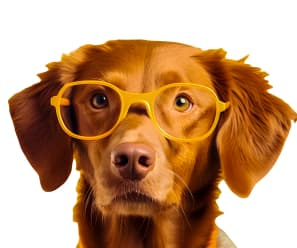
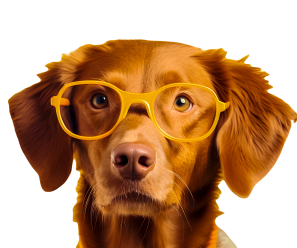
deleted old images and added png images, added some styles for mob menu and 404 page

diff --git a/src/pages/NotFound/NotFound.jsx b/src/pages/NotFound/NotFound.jsx
@@ -1,0 +1,63 @@
+import React from "react";
+import { Link } from "react-router-dom";
+import {
+  ImgStyled,
+  ImgThumb,
+  NotFoundBtn,
+  NotFoundCont,
+  NotFoundDescr,
+  NotFoundTextWrap,
+  NotFoundTitle,
+} from "./NotFound.styled";
+
+const NotFound = () => {
+  return (
+    <NotFoundCont>
+      <NotFoundTextWrap>
+        <NotFoundTitle>
+          4
+          <ImgThumb>
+            <ImgStyled
+              src="./src/assets/imgs/mobile/404-img-1x-mob.jpg"
+              alt="cat"
+            />
+          </ImgThumb>
+          4
+        </NotFoundTitle>
+        <NotFoundDescr>Ooops! This page not found :(</NotFoundDescr>
+        <Link to="/">
+          <NotFoundBtn type="button">To home page</NotFoundBtn>
+        </Link>
+      </NotFoundTextWrap>
+    </NotFoundCont>
+  );
+};
+
+export default NotFound;
+
+{
+  /* <picture>
+  <source
+    srcset="./images/desktop/teamcard1-desktop-1x.jpg 1x, 
+      ./images/desktop/teamcard1-desktop-2x.jpg 2x"
+    media="(min-width:1200px)"
+  />
+
+  <source
+    srcset="./images/tablet/teamcard1-tablet-1x.jpg 1x, 
+      ./images/tablet/teamcard1-tablet-2x.jpg 2x"
+    media="(min-width:768px)"
+  />
+
+  <source
+    srcset="./images/mobile/teamcard1-mobile-1x.jpg 1x, 
+      ./images/mobile/teamcard1-mobile-2x.jpg 2x"
+    media="(min-width:320px)"
+  />
+
+  <img
+    csrc="./images/desktop/teamcard1-desktop-1x.jpg"
+    alt="Игорь Демьяненко"
+  />
+</picture>; */
+}

diff --git a/src/pages/NotFound/NotFound.styled.js b/src/pages/NotFound/NotFound.styled.js
@@ -1,0 +1,61 @@
+import styled from "styled-components";
+
+export const NotFoundCont = styled.div`
+  width: 335px;
+  padding: 0 20px 20px;
+  margin: 0 auto;
+`;
+
+export const NotFoundTextWrap = styled.div`
+  display: flex;
+  flex-direction: column;
+  justify-content: center;
+  align-items: center;
+  background-color: ${(props) => props.theme.colors.accentColor};
+  border-radius: 30px;
+  padding: 245px 0;
+`;
+
+export const NotFoundTitle = styled.h2`
+  display: flex;
+  font-weight: 800;
+  font-size: 120px;
+  line-height: 1;
+  color: #fff;
+  margin-bottom: 20px;
+`;
+
+export const ImgThumb = styled.div`
+  display: flex;
+  width: 120px;
+  height: 120px;
+  border-radius: 100%;
+  background-color: #f7bf50;
+  text-align: center;
+`;
+
+export const ImgStyled = styled.img`
+  border-radius: 100%;
+`;
+
+export const NotFoundDescr = styled.p`
+  font-weight: 700;
+  font-size: 16px;
+  line-height: 1.25;
+  letter-spacing: -0.03em;
+  color: #fff;
+  margin-bottom: 20px;
+`;
+
+export const NotFoundBtn = styled.button`
+  border-radius: 30px;
+  padding: 12px 30px;
+  width: 150px;
+  height: 42px;
+  background: #fff4df;
+  font-weight: 700;
+  font-size: 14px;
+  line-height: 1.28;
+  letter-spacing: -0.03em;
+  color: #f6b83d;
+`;

diff --git a/src/components/App.jsx b/src/components/App.jsx
@@ -6,6 +6,7 @@ import { ThemeProvider } from "styled-components";
 import Loader from "./Loader/Loader";
 import OurFriends from "../pages/OurFriends/OurFriends";
 import { FindPet } from "../pages/FindPet/FindPet";
+import NotFound from "../pages/NotFound/NotFound";
 
 const Home = lazy(() => import("../pages/Home/Home"));
 const News = lazy(() => import("../pages/News/News"));
@@ -77,7 +78,8 @@ export const App = () => {
             <Route path="/news" element={<News />}></Route>
             <Route path="/our-friends" element={<OurFriends />}></Route>
             <Route path="/find-pet" element={<FindPet />}></Route>
-            <Route path="*" element={<Navigate to="/" />} />
+            <Route path="/not-found" element={<NotFound />} />
+            <Route path="*" element={<NotFound />} />
           </Routes>
         </Suspense>
       </Layout>

diff --git a/src/components/MobMenu/MobMenu.styled.js b/src/components/MobMenu/MobMenu.styled.js
@@ -8,7 +8,7 @@ export const MobMenuOverlay = styled.div`
   bottom: 0;
   left: 0;
   z-index: 99;
-  /* background-color: ${(props) => props.theme.colors.ModalBgColor}; */
+  overflow-y: auto;
   &:hover {
     cursor: pointer;
   }
@@ -21,8 +21,7 @@ export const MobMenuStyled = styled.div`
   padding: 40px 20px;
   background: white;
   cursor: auto;
-  overflow-y: auto;
-  height: 90vh;
+  height: 100vh;
   max-width: 218px;
   display: flex;
   flex-direction: column;
